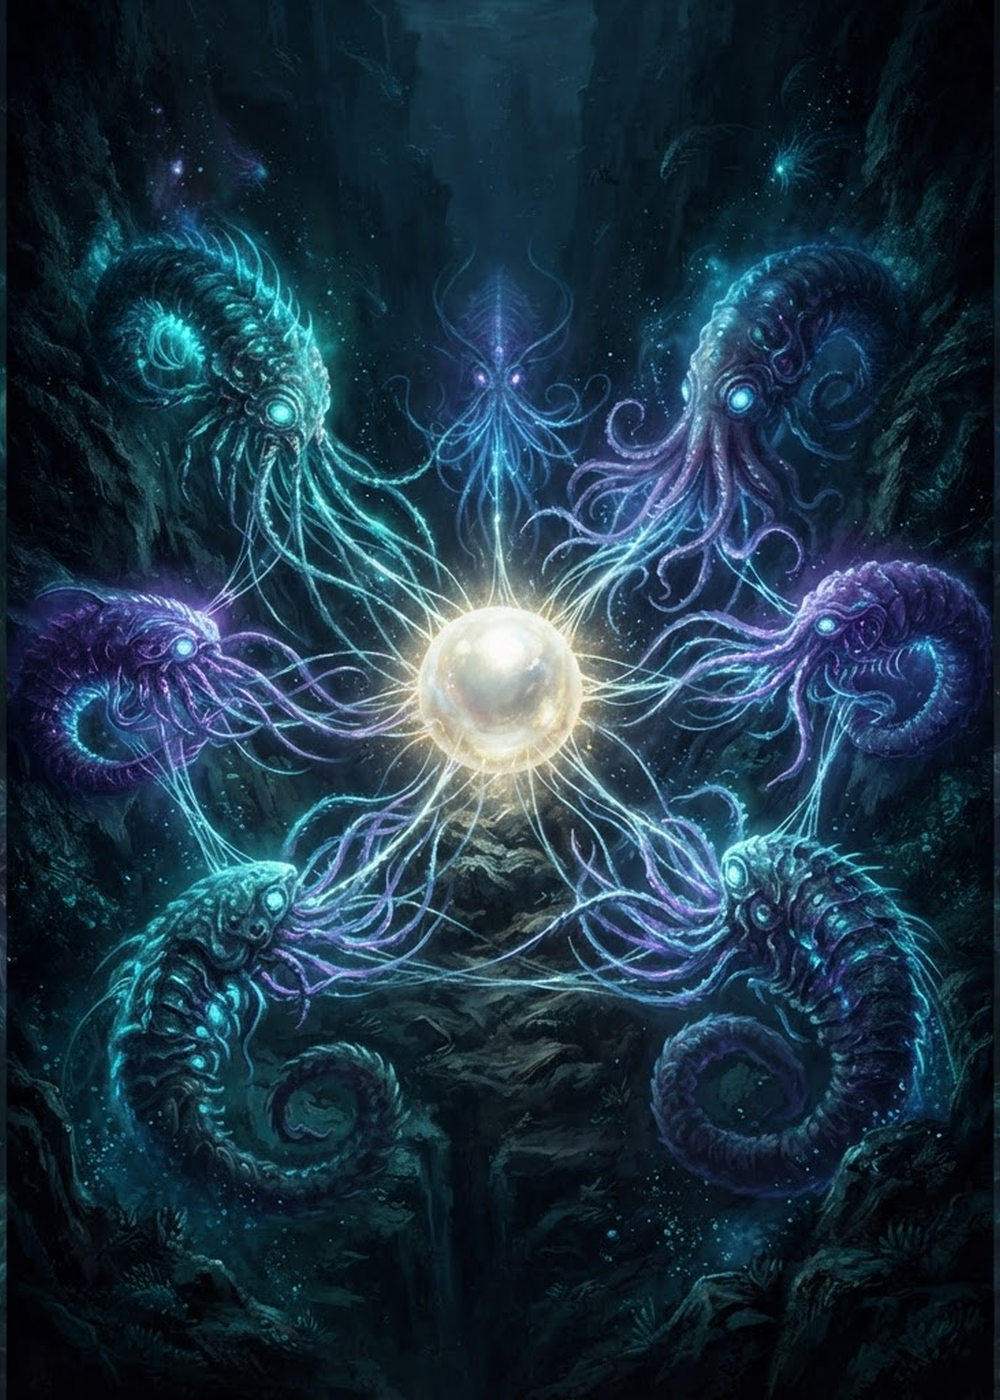
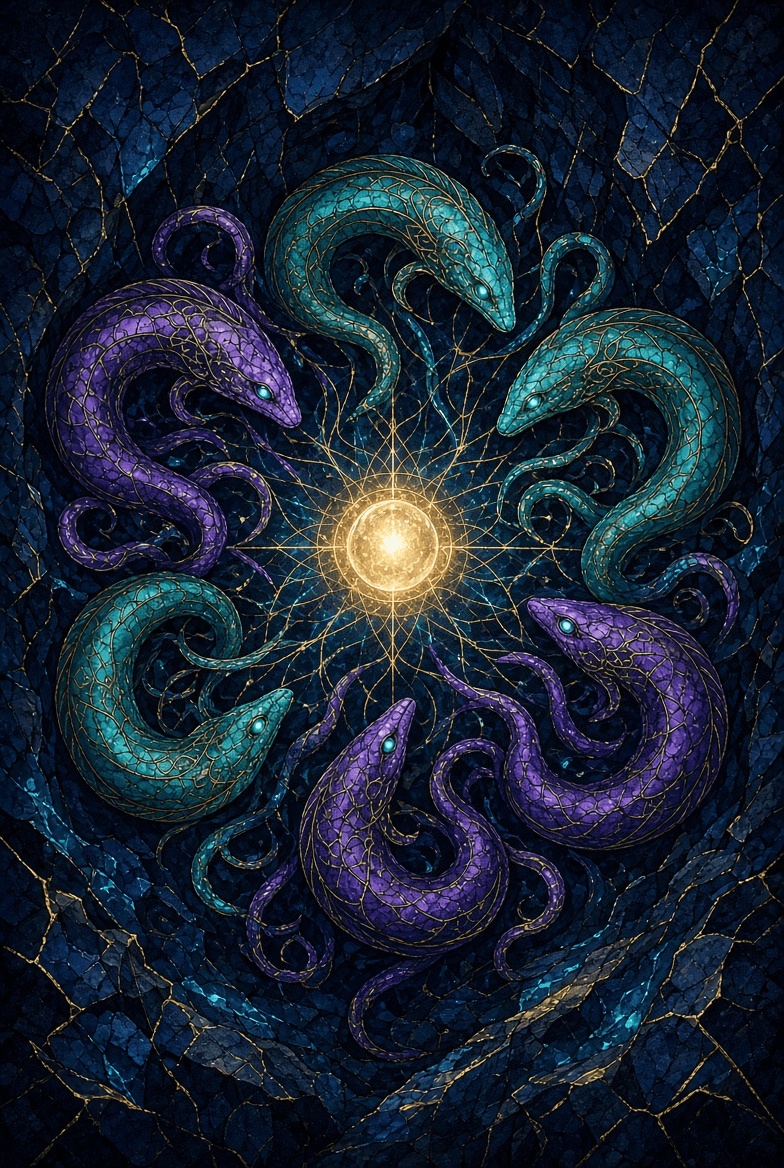
Replace Ledgerborn Mythic card art with new PNGs and refresh pack cover/samples

diff --git a/lib/pack-catalog.ts b/lib/pack-catalog.ts
@@ -37,7 +37,7 @@ export const PACK_CATALOG: readonly PackCatalogEntry[] = [
     cardsPerPack: 3,
     priceXrp: 5,
     packImage: '/sets/ledgerborn/ledgerborn-mythic-pack-v2.png',
-    coverImage: '/cards/primordial-tidewyrm-cover.png',
+    coverImage: '/cards/primordial-tidewyrm-cover-v2.png',
     theme: {
       id: 'mythic',
       blurb: 'Ancient powers. On-ledger. Become Ledgerborn.',
@@ -128,8 +128,8 @@ export type SampleCard = { name: string; rarity: Rarity; image: string }
  */
 export const SAMPLE_CARDS: Record<PackSetId, readonly [SampleCard, SampleCard]> = {
   ledgerborn: [
-    { name: 'Aurelian Tidesovereign', rarity: 'Legendary', image: '/cards/aurelian-tidesovereign-sample.webp' },
-    { name: 'Rippleborn, the Unledgered', rarity: 'Mythic', image: '/cards/rippleborn-the-unledgered-sample.webp' },
+    { name: 'Aurelian Tidesovereign', rarity: 'Legendary', image: '/cards/aurelian-tidesovereign-sample-v2.webp' },
+    { name: 'Rippleborn, the Unledgered', rarity: 'Mythic', image: '/cards/rippleborn-the-unledgered-sample-v2.webp' },
   ],
   'cyborg-cowboy': [
     { name: 'Sunforge Desperado', rarity: 'Legendary', image: '/sets/cyborg-cowboy/images/sunforge-desperado-sample.webp' },
